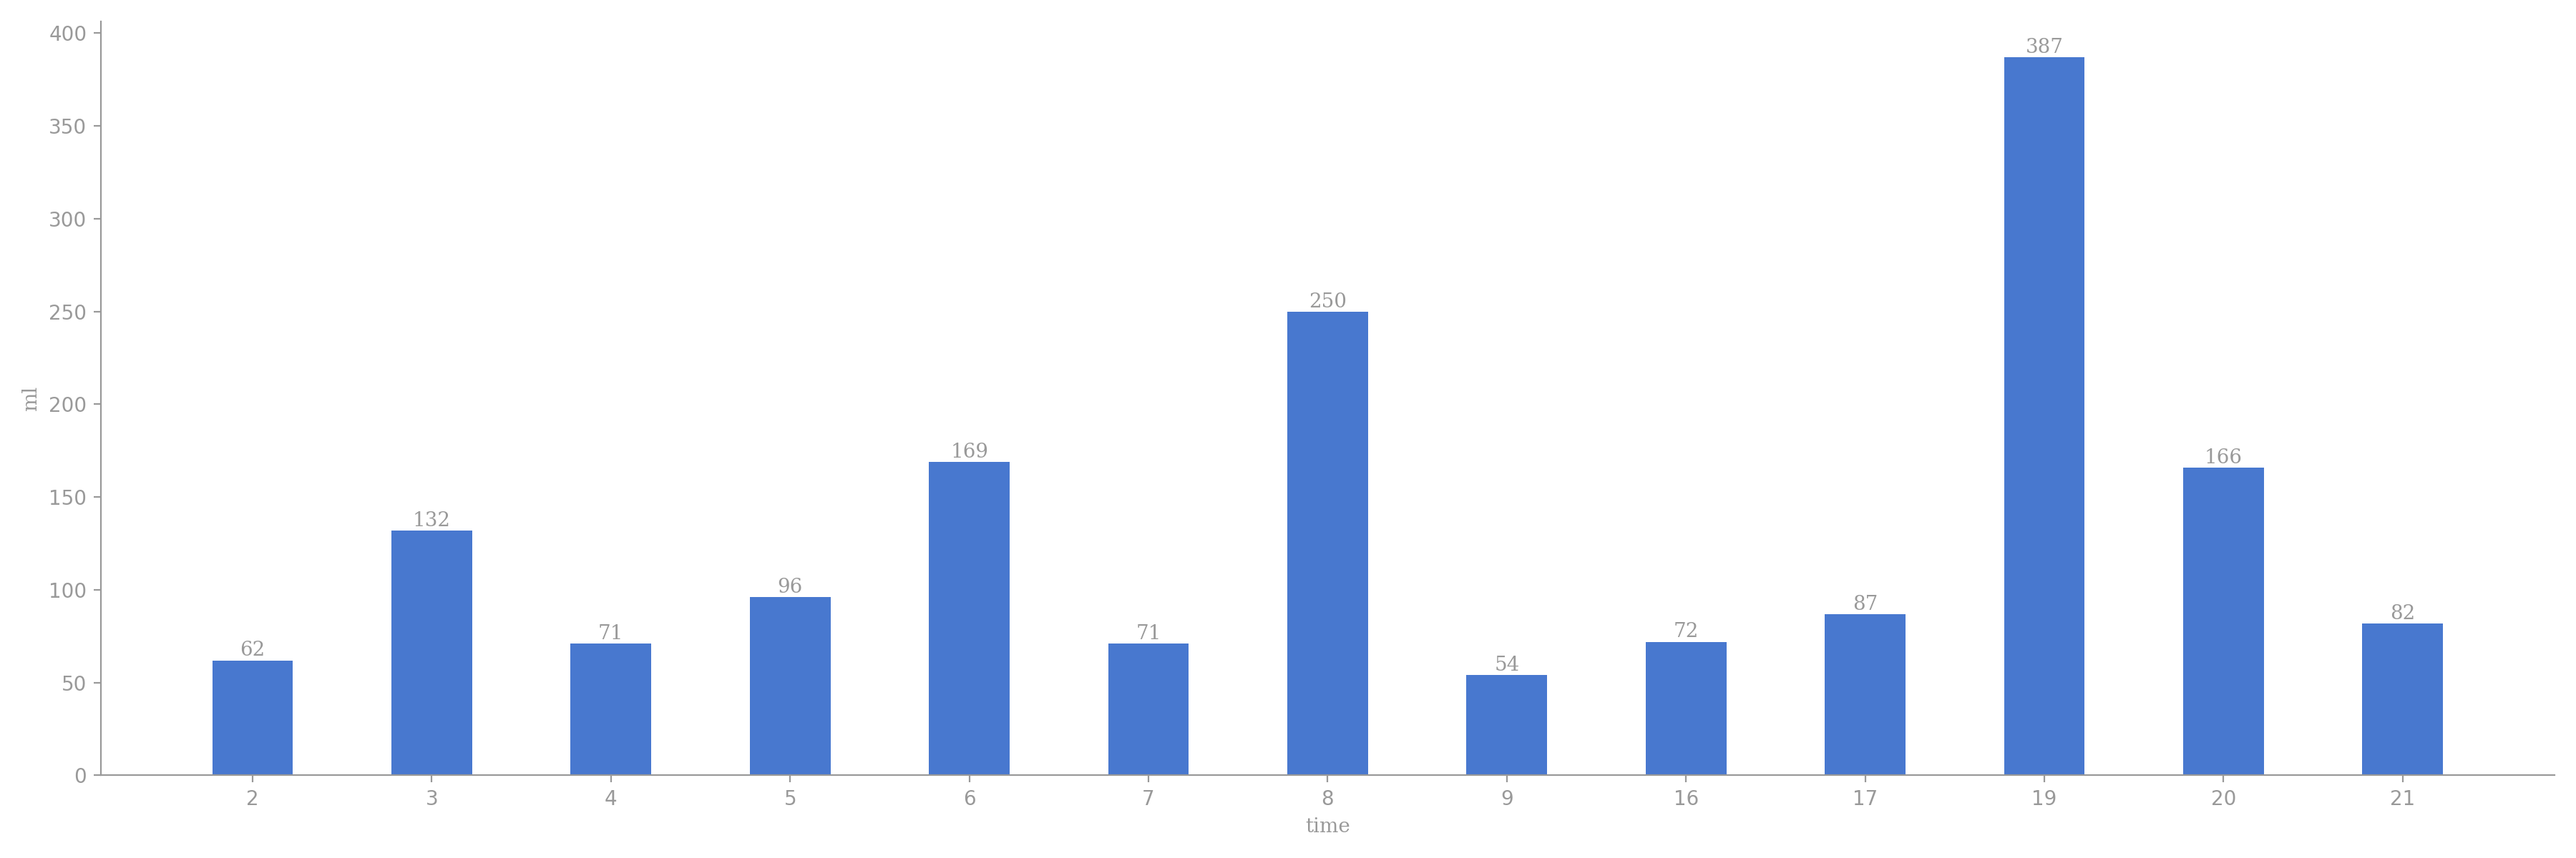
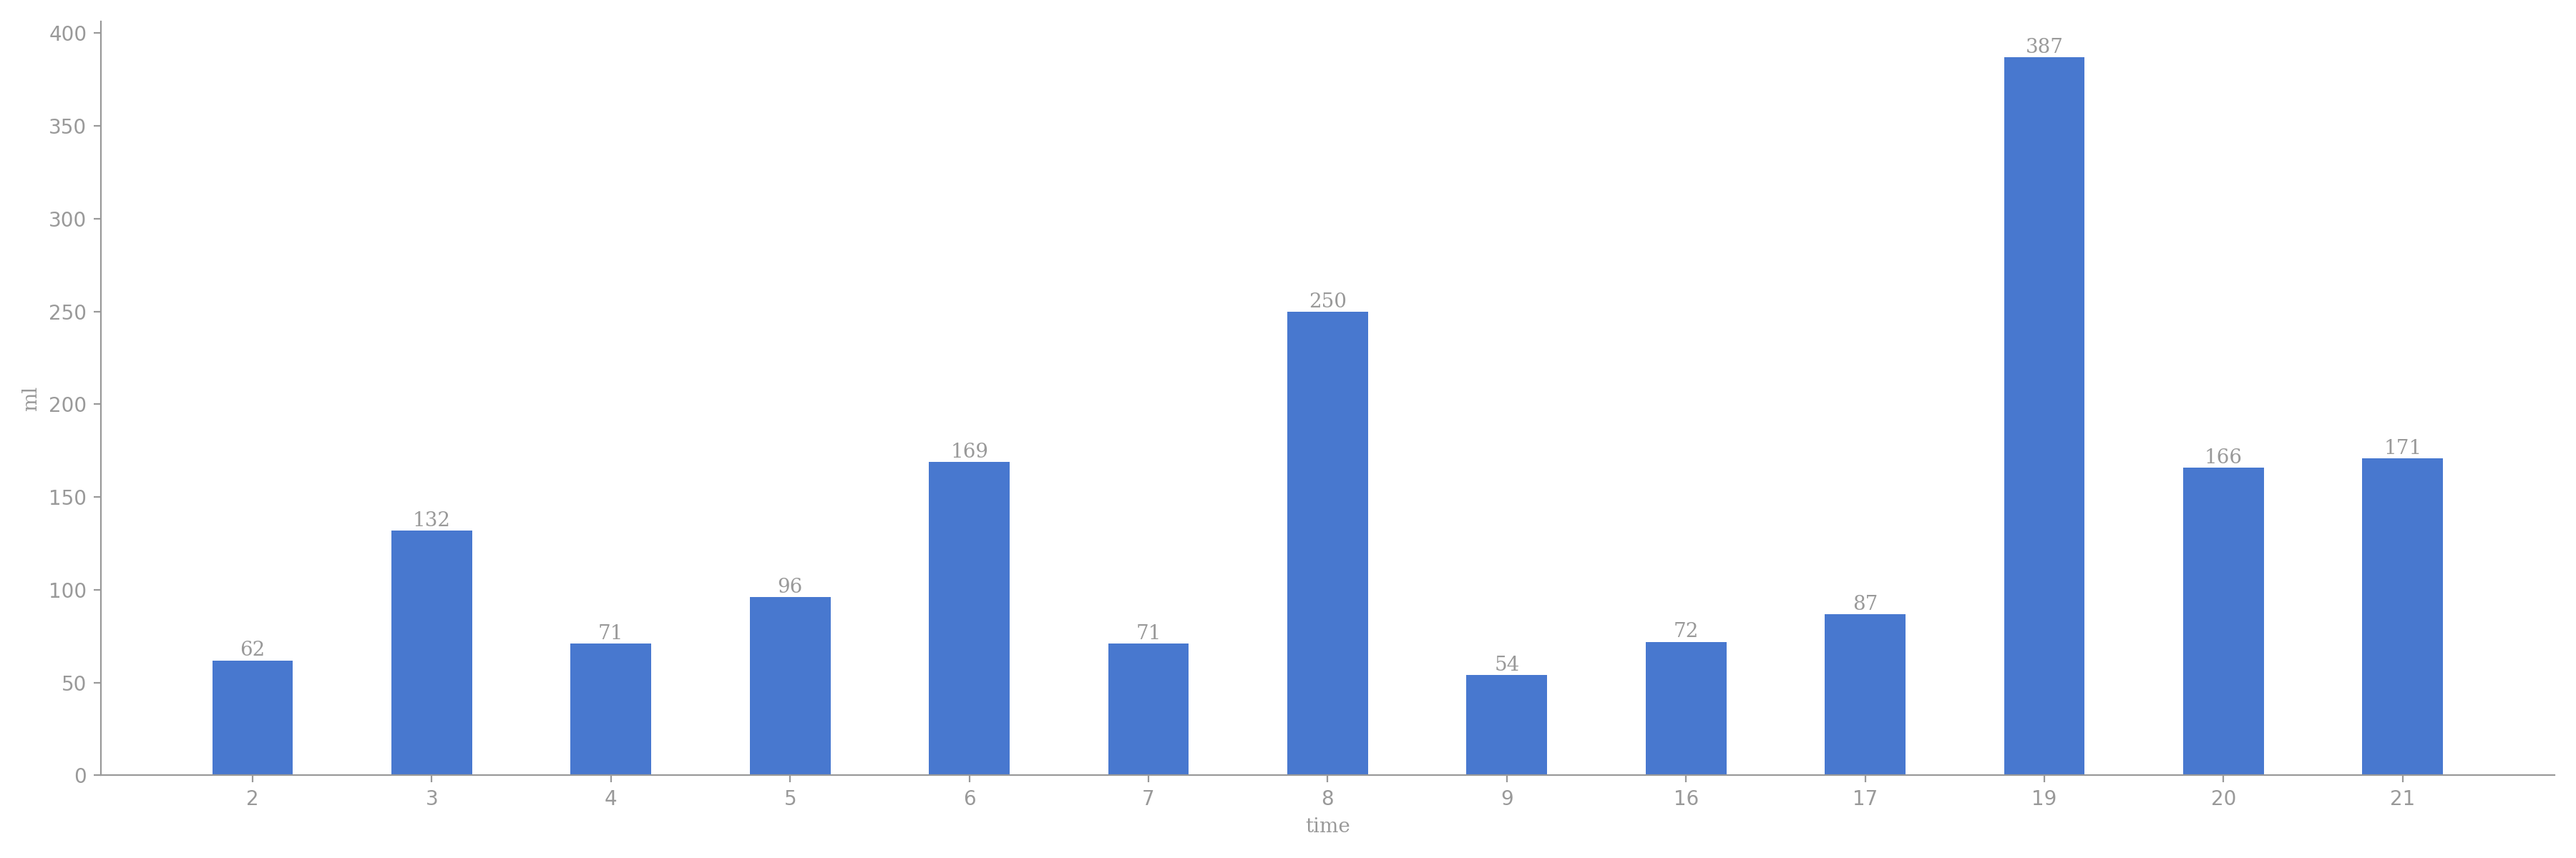
generated readme

Changed region(s): [[0.9022, 0.5242, 0.9644, 0.74]]

diff --git a/README.md b/README.md
@@ -5,12 +5,12 @@
 
 | 今日总饮水量 | 每小时平均饮水量 |
 | :----: | :----: |
-| 1699 | 130 |
+| 1788 | 137 |
 </div>
 
-| 日期 | 02:41:03 | 03:30:30 | 04:14:45 | 05:17:14 | 06:01:08 | 06:58:58 | 07:45:32 | 08:35:20 | 09:06:42 | 16:02:55 | 17:27:57 | 19:09:54 | 19:40:03 | 20:26:12 | 20:35:15 | 20:53:52 | 21:23:25 |
-| :----: | :----: | :----: | :----: | :----: | :----: | :----: | :----: | :----: | :----: | :----: | :----: | :----: | :----: | :----: | :----: | :----: | :----: |
-| 2024-07-21 | 62 | 132 | 71 | 96 | 83 | 86 | 71 | 250 | 54 | 72 | 87 | 300 | 87 | 47 | 67 | 52 | 82 |
+| 日期 | 02:41:03 | 03:30:30 | 04:14:45 | 05:17:14 | 06:01:08 | 06:58:58 | 07:45:32 | 08:35:20 | 09:06:42 | 16:02:55 | 17:27:57 | 19:09:54 | 19:40:03 | 20:26:12 | 20:35:15 | 20:53:52 | 21:23:25 | 21:57:02 |
+| :----: | :----: | :----: | :----: | :----: | :----: | :----: | :----: | :----: | :----: | :----: | :----: | :----: | :----: | :----: | :----: | :----: | :----: | :----: |
+| 2024-07-21 | 62 | 132 | 71 | 96 | 83 | 86 | 71 | 250 | 54 | 72 | 87 | 300 | 87 | 47 | 67 | 52 | 82 | 89 |
 
 # 近30日饮水数据
 
